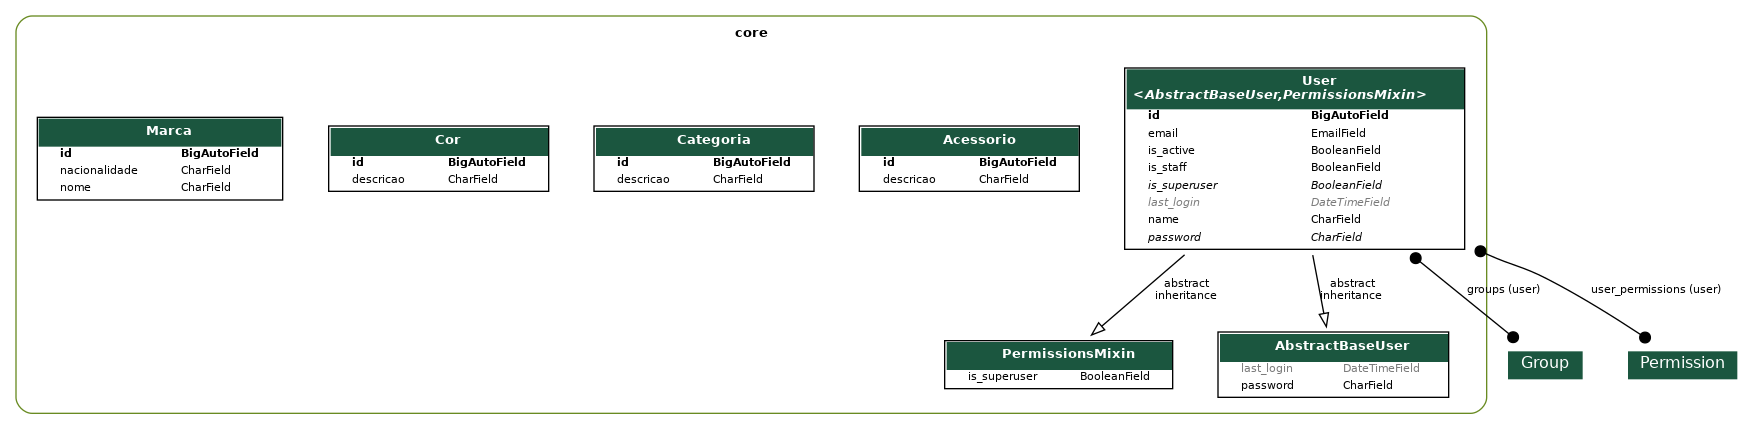
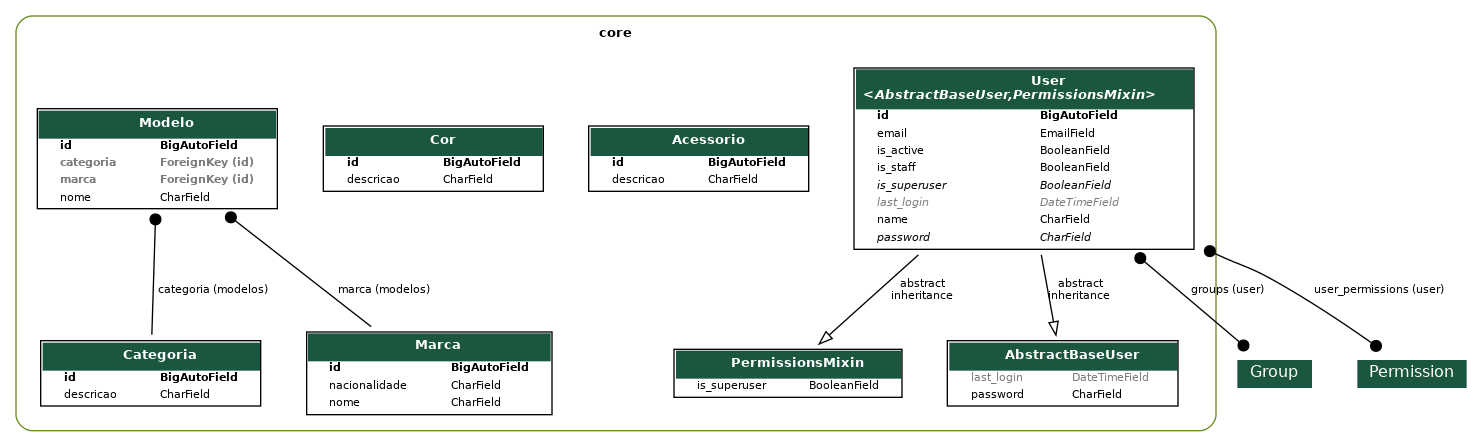
modelo com fk

Changed region(s): [[0.0, 0.0303, 0.9926, 0.9697], [0.2171, 0.6364, 0.3102, 0.6667], [0.0931, 0.6364, 0.1861, 0.6667]]

diff --git a/core/migrations/0007_modelo.py b/core/migrations/0007_modelo.py
@@ -1,0 +1,31 @@
+# Generated by Django 5.0.2 on 2024-07-01 17:41
+
+import django.db.models.deletion
+from django.db import migrations, models
+
+
+class Migration(migrations.Migration):
+
+    dependencies = [
+        ("core", "0006_marca"),
+    ]
+
+    operations = [
+        migrations.CreateModel(
+            name="Modelo",
+            fields=[
+                ("id", models.BigAutoField(auto_created=True, primary_key=True, serialize=False, verbose_name="ID")),
+                ("nome", models.CharField(max_length=100)),
+                (
+                    "categoria",
+                    models.ForeignKey(
+                        blank=True,
+                        null=True,
+                        on_delete=django.db.models.deletion.PROTECT,
+                        related_name="modelos",
+                        to="core.marca",
+                    ),
+                ),
+            ],
+        ),
+    ]

diff --git a/core/migrations/0009_modelo_marca.py b/core/migrations/0009_modelo_marca.py
@@ -1,0 +1,25 @@
+# Generated by Django 5.0.2 on 2024-07-01 17:48
+
+import django.db.models.deletion
+from django.db import migrations, models
+
+
+class Migration(migrations.Migration):
+
+    dependencies = [
+        ("core", "0008_alter_modelo_categoria"),
+    ]
+
+    operations = [
+        migrations.AddField(
+            model_name="modelo",
+            name="marca",
+            field=models.ForeignKey(
+                blank=True,
+                null=True,
+                on_delete=django.db.models.deletion.PROTECT,
+                related_name="modelos",
+                to="core.marca",
+            ),
+        ),
+    ]

diff --git a/core/migrations/0008_alter_modelo_categoria.py b/core/migrations/0008_alter_modelo_categoria.py
@@ -1,0 +1,25 @@
+# Generated by Django 5.0.2 on 2024-07-01 17:46
+
+import django.db.models.deletion
+from django.db import migrations, models
+
+
+class Migration(migrations.Migration):
+
+    dependencies = [
+        ("core", "0007_modelo"),
+    ]
+
+    operations = [
+        migrations.AlterField(
+            model_name="modelo",
+            name="categoria",
+            field=models.ForeignKey(
+                blank=True,
+                null=True,
+                on_delete=django.db.models.deletion.PROTECT,
+                related_name="modelos",
+                to="core.categoria",
+            ),
+        ),
+    ]

diff --git a/app/urls.py b/app/urls.py
@@ -14,6 +14,7 @@ from core.views import AcessorioViewSet
 from core.views import CategoriaViewSet
 from core.views import CorViewSet
 from core.views import MarcaViewSet
+from core.views import ModeloViewSet
 
 router = DefaultRouter()
 
@@ -22,6 +23,7 @@ router.register(r"acessorios", AcessorioViewSet)
 router.register(r"categorias", CategoriaViewSet)
 router.register(r"cores", CorViewSet)
 router.register(r"marcas", MarcaViewSet)
+router.register(r"modelos", ModeloViewSet)
 
 urlpatterns = [
     path("admin/", admin.site.urls),

diff --git a/core/models/modelo.py b/core/models/modelo.py
@@ -1,0 +1,17 @@
+from django.db import models
+
+class Modelo(models.Model):
+    nome = models.CharField(max_length=100)
+
+    from .marca import Marca
+    marca = models.ForeignKey(Marca, on_delete=models.PROTECT, related_name="modelos", null=True, blank=True)
+
+    from .categoria import Categoria
+    categoria = models.ForeignKey(Categoria, on_delete=models.PROTECT, related_name="modelos", null=True, blank=True)
+
+    
+    
+     
+
+    def __str__(self):
+        return f"{self.titulo} ({self.quantidade})"

diff --git a/core/views/modelo.py b/core/views/modelo.py
@@ -1,0 +1,9 @@
+from rest_framework.viewsets import ModelViewSet
+
+from core.models import Modelo
+from core.serializers import ModeloSerializer
+
+
+class ModeloViewSet(ModelViewSet):
+    queryset = Modelo.objects.all()
+    serializer_class = ModeloSerializer

diff --git a/core/serializers/modelo.py b/core/serializers/modelo.py
@@ -1,0 +1,9 @@
+from rest_framework.serializers import ModelSerializer
+
+from core.models import Modelo
+
+
+class ModeloSerializer(ModelSerializer):
+    class Meta:
+        model = Modelo
+        fields = "__all__"

diff --git a/core/serializers/__init__.py b/core/serializers/__init__.py
@@ -3,3 +3,4 @@ from .acessorio import AcessorioSerializer
 from .categoria import CategoriaSerializer
 from .cor import CorSerializer
 from .marca import MarcaSerializer
+from .modelo import ModeloSerializer

diff --git a/core/admin.py b/core/admin.py
@@ -53,3 +53,5 @@ admin.site.register(models.Acessorio)
 admin.site.register(models.Categoria)
 admin.site.register(models.Cor)
 admin.site.register(models.Marca)
+admin.site.register(models.Modelo)
+

diff --git a/core/views/__init__.py b/core/views/__init__.py
@@ -3,3 +3,4 @@ from .acessorio import AcessorioViewSet
 from .categoria import CategoriaViewSet
 from .cor import CorViewSet
 from .marca import MarcaViewSet
+from .modelo import ModeloViewSet

diff --git a/core/models/__init__.py b/core/models/__init__.py
@@ -3,3 +3,4 @@ from .acessorio import Acessorio
 from .categoria import Categoria
 from .cor import Cor
 from .marca import Marca
+from .modelo import Modelo
